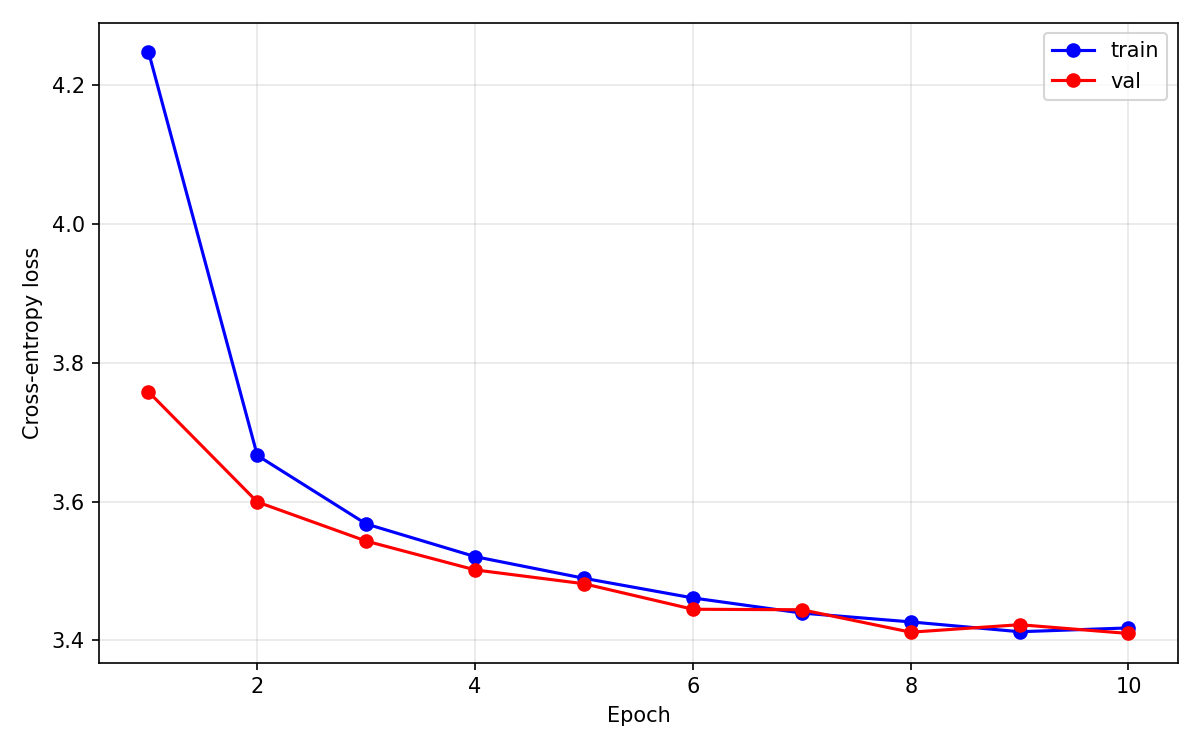
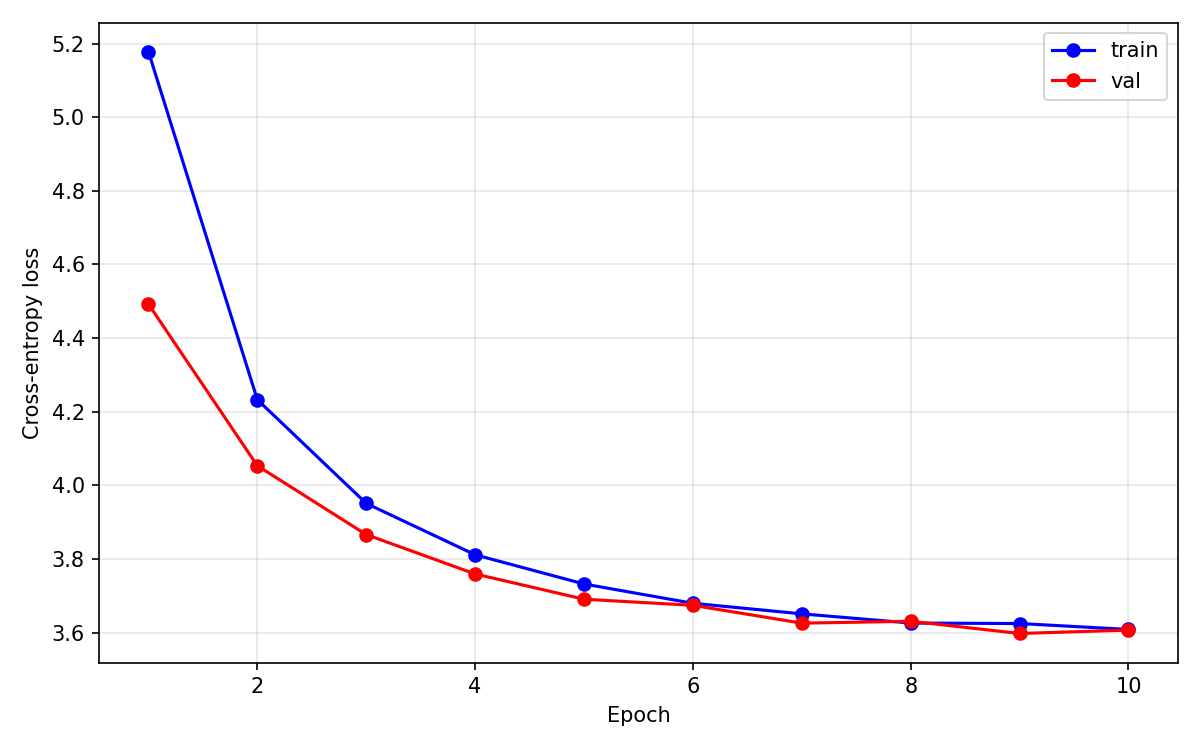
v1.4: Uses 128 dim, added fa but didnt use it yety

diff --git a/llm.py b/llm.py
@@ -8,8 +8,9 @@ import torch.nn.functional as F
 
 @dataclass
 class LLMConfig:
-    n_dim = 64  # Dimensions of the token vectors
+    n_dim = 128  # Dimensions of the token vectors
     n_layers = 10  # Number of layers in the language model
+    n_heads = 8
     vocab_size = 1024  # Number of unique tokens
     seq_len = 128  # Context length
 
@@ -24,25 +25,26 @@ class Layer(nn.Module):
             nn.ReLU(),
             nn.Linear(self.config.n_dim * 4, self.config.n_dim),
         )
-        self.register_buffer(
-            "mask",
-            torch.triu(
-                torch.ones(
-                    self.config.seq_len,
-                    self.config.seq_len,
-                    dtype=torch.bool,
-                ),
-                diagonal=1,
-            ),
-        )
+        # self.register_buffer(
+        #     "mask",
+        #     torch.triu(
+        #         torch.ones(
+        #             self.config.seq_len,
+        #             self.config.seq_len,
+        #             dtype=torch.bool,
+        #         ),
+        #         diagonal=1,
+        #     ),
+        # )
 
     def forward(self, x):
         q, k, v = self.qkv(x).chunk(3, dim=-1)
         T = q.size(-2)
-        scores = (q @ k.transpose(-1, -2)) * self.config.n_dim**-0.5
-        scores = scores.masked_fill(self.mask[:T, :T], float("-inf"))
-        attn = F.softmax(scores, dim=-1)
-        out = x + attn @ v
+        # scores = (q @ k.transpose(-1, -2)) * self.config.n_dim**-0.5
+        # scores = scores.masked_fill(self.mask[:T, :T], float("-inf"))
+        # attn = F.softmax(scores, dim=-1)
+        # out = x + attn @ v
+        out = x + F.scaled_dot_product_attention(q, k, v, is_causal=True)
         out = out + self.ffn(out)
         return out
 

diff --git a/train.py b/train.py
@@ -22,11 +22,11 @@ val_dataset = ShardedTokenDataset("val")
 class TrainConfig:
     RUN_NAME: str = "v1.4"
     epochs = 10
-    train_steps = 7000
+    train_steps = 4000
     val_steps = 100
     batch_size = 512
     val_interval = 1  # Epoch between val intervals
-    peak_lr: float = 3e-4
+    peak_lr: float = 5e-5
     lr_warmup: int = 200
     min_lr_ratio: float = 0.1
 
